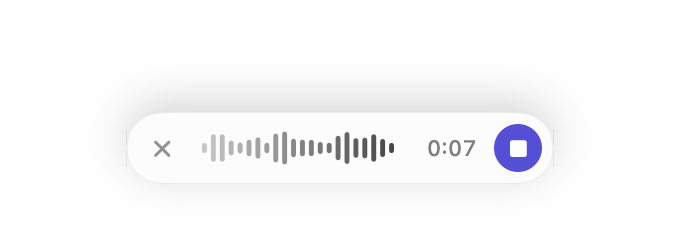
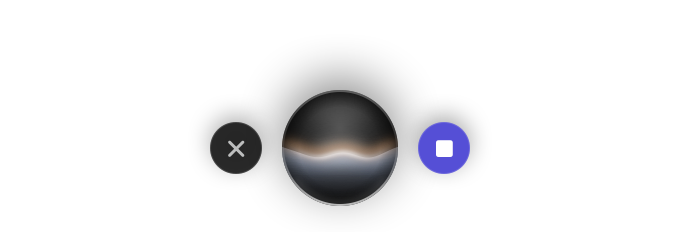
Replace the dictation pill with a glass orb

diff --git a/Sources/Murmur/Pill.swift b/Sources/Murmur/Pill.swift
@@ -2,7 +2,7 @@ import AppKit
 import SwiftUI
 import Combine
 
-/// The floating capsule shown while dictating. It never takes focus, so typing continues
+/// The floating orb shown while dictating. It never takes focus, so typing continues
 /// to land in the app underneath.
 final class PillController {
     private var panel: NSPanel?
@@ -74,25 +74,20 @@ final class PillController {
 
 struct PillView: View {
     @ObservedObject var model: PillModel
-    @Environment(\.colorScheme) private var scheme
+    @Environment(\.accessibilityReduceMotion) private var reduceMotion
 
     var body: some View {
         ZStack {
             content
-                .padding(.horizontal, 6)
-                .frame(height: 36)
-                .background(
-                    Capsule().fill(background)
-                        .shadow(color: .black.opacity(scheme == .dark ? 0.45 : 0.18), radius: 12, y: 5)
-                )
-                .overlay(Capsule().strokeBorder(Color.primary.opacity(scheme == .dark ? 0.14 : 0.08), lineWidth: 0.5))
                 .animation(.spring(response: 0.32, dampingFraction: 0.82), value: model.phase)
         }
         .frame(maxWidth: .infinity, maxHeight: .infinity)
     }
 
-    private var background: Color {
-        scheme == .dark ? Color(white: 0.11).opacity(0.96) : Color(white: 0.99).opacity(0.97)
+    /// The last few microphone readings averaged, so the ripple swells rather than jumps.
+    private var level: CGFloat {
+        let recent = model.levels.suffix(3)
+        return CGFloat(recent.reduce(0, +)) / CGFloat(max(recent.count, 1))
     }
 
     @ViewBuilder private var content: some View {
@@ -100,40 +95,51 @@ struct PillView: View {
         case .hidden:
             EmptyView()
         case .listening(let handsFree):
-            HStack(spacing: 8) {
-                PillButton(symbol: "xmark", help: "Cancel (Esc)") { Dictation.shared.cancel() }
-                Waveform(levels: model.levels)
-                    .frame(width: 96, height: 20)
-                Text(model.started, style: .timer)
-                    .font(.system(size: 11, weight: .medium).monospacedDigit())
-                    .foregroundStyle(.secondary)
-                    .frame(width: 34, alignment: .trailing)
-                PillButton(symbol: handsFree ? "stop.fill" : "checkmark", help: "Finish", prominent: handsFree) {
-                    Dictation.shared.finish()
+            HStack(spacing: 10) {
+                // Holding the key needs no buttons: letting go is "done", Esc is "cancel".
+                if handsFree {
+                    PillButton(symbol: "xmark", help: "Cancel (Esc)") { Dictation.shared.cancel() }
+                }
+                orb(thinking: false)
+                if handsFree {
+                    PillButton(symbol: "stop.fill", help: "Finish", prominent: true) { Dictation.shared.finish() }
                 }
             }
         case .thinking:
-            HStack(spacing: 8) {
-                ThinkingDots()
-                Text("Transcribing")
-                    .font(.system(size: 12, weight: .medium))
-                    .foregroundStyle(.secondary)
-            }
-            .padding(.horizontal, 10)
+            orb(thinking: true)
         case .notice(let message, let good):
-            HStack(spacing: 7) {
-                Image(systemName: good ? "checkmark.circle.fill" : "exclamationmark.circle")
-                    .font(.system(size: 13, weight: .semibold))
-                    .foregroundStyle(good ? Theme.accent : Color.secondary)
-                if !message.isEmpty {
+            if message.isEmpty {
+                orb(thinking: true)
+                    .overlay(Image(systemName: "checkmark")
+                        .font(.system(size: 17, weight: .bold))
+                        .foregroundStyle(.white)
+                        .shadow(color: .black.opacity(0.5), radius: 3))
+            } else {
+                HStack(spacing: 7) {
+                    Image(systemName: good ? "checkmark.circle.fill" : "exclamationmark.circle")
+                        .font(.system(size: 13, weight: .semibold))
+                        .foregroundStyle(good ? Theme.accent : Color.white.opacity(0.6))
                     Text(message)
                         .font(.system(size: 12, weight: .medium))
-                        .foregroundStyle(.primary.opacity(0.85))
+                        .foregroundStyle(.white.opacity(0.9))
                         .lineLimit(1)
                 }
+                .padding(.horizontal, 14)
+                .frame(height: 34)
+                .background(Capsule().fill(Color(white: 0.09).opacity(0.96))
+                    .shadow(color: .black.opacity(0.4), radius: 12, y: 5))
+                .overlay(Capsule().strokeBorder(Color.white.opacity(0.14), lineWidth: 0.5))
             }
-            .padding(.horizontal, message.isEmpty ? 4 : 10)
         }
+    }
+
+    private func orb(thinking: Bool) -> some View {
+        // The timeline exists only while the orb is on screen; hidden, nothing ticks.
+        TimelineView(.animation(minimumInterval: 1.0 / 30, paused: reduceMotion)) { timeline in
+            OrbView(level: level, time: reduceMotion ? 0.8 : timeline.date.timeIntervalSinceReferenceDate, thinking: thinking)
+        }
+        .frame(width: 58, height: 58)
+        .shadow(color: .black.opacity(0.45), radius: 12, y: 6)
     }
 }
 
@@ -148,55 +154,16 @@ private struct PillButton: View {
         Button(action: action) {
             Image(systemName: symbol)
                 .font(.system(size: 10, weight: .bold))
-                .foregroundStyle(prominent ? Color.white : Color.primary.opacity(hovering ? 0.9 : 0.5))
-                .frame(width: 24, height: 24)
-                .background(Circle().fill(prominent ? Theme.accent : Color.primary.opacity(hovering ? 0.1 : 0)))
+                .foregroundStyle(Color.white.opacity(prominent || hovering ? 1 : 0.7))
+                .frame(width: 26, height: 26)
+                .background(Circle().fill(prominent ? Theme.accent : Color(white: hovering ? 0.22 : 0.12).opacity(0.95))
+                    .shadow(color: .black.opacity(0.35), radius: 6, y: 3))
+                .overlay(Circle().strokeBorder(Color.white.opacity(0.14), lineWidth: 0.5))
                 .contentShape(Circle())
         }
         .buttonStyle(.plain)
         .onHover { hovering = $0 }
         .help(help)
         .accessibilityLabel(help)
-    }
-}
-
-/// Bars that follow the microphone. Redrawn only when a new level arrives.
-struct Waveform: View {
-    let levels: [Float]
-
-    var body: some View {
-        Canvas { context, size in
-            let count = levels.count
-            guard count > 0 else { return }
-            let gap: CGFloat = 2
-            let width = (size.width - gap * CGFloat(count - 1)) / CGFloat(count)
-            for (i, level) in levels.enumerated() {
-                // Newer bars are stronger; older ones fade toward the left.
-                let age = CGFloat(i) / CGFloat(count - 1)
-                let height = max(2.5, CGFloat(level) * size.height)
-                let rect = CGRect(x: CGFloat(i) * (width + gap), y: (size.height - height) / 2, width: width, height: height)
-                context.fill(Path(roundedRect: rect, cornerRadius: width / 2), with: .color(.primary.opacity(0.25 + 0.6 * age)))
-            }
-        }
-        .animation(.linear(duration: 0.06), value: levels)
-        .accessibilityHidden(true)
-    }
-}
-
-private struct ThinkingDots: View {
-    @Environment(\.accessibilityReduceMotion) private var reduceMotion
-
-    var body: some View {
-        // The timeline exists only while this view is on screen.
-        TimelineView(.animation(minimumInterval: 1.0 / 30, paused: reduceMotion)) { timeline in
-            let t = timeline.date.timeIntervalSinceReferenceDate
-            HStack(spacing: 3) {
-                ForEach(0..<3, id: \.self) { i in
-                    Circle()
-                        .fill(Color.primary.opacity(reduceMotion ? 0.6 : 0.3 + 0.5 * (0.5 + 0.5 * sin(t * 5 - Double(i) * 0.9))))
-                        .frame(width: 4.5, height: 4.5)
-                }
-            }
-        }
     }
 }

diff --git a/Sources/Murmur/Orb.swift b/Sources/Murmur/Orb.swift
@@ -1,0 +1,121 @@
+import SwiftUI
+
+/// A dark glass sphere with a band of light across its middle that ripples with your voice.
+/// Drawn entirely in SwiftUI (no Metal shader files), so it builds with Command Line Tools.
+/// The wavy-surface idea follows metasidd/Orb (MIT): https://github.com/metasidd/Orb
+struct OrbView: View {
+    /// 0...1 microphone level.
+    var level: CGFloat
+    /// Seconds, drives the ripple. Pass a fixed value for a still image.
+    var time: Double
+    /// Slow shimmer instead of voice ripples, for the transcribing state.
+    var thinking = false
+
+    var body: some View {
+        Canvas { context, size in
+            let side = min(size.width, size.height)
+            let rect = CGRect(x: (size.width - side) / 2, y: (size.height - side) / 2, width: side, height: side)
+            let sphere = Path(ellipseIn: rect)
+            let centre = CGPoint(x: rect.midX, y: rect.midY)
+            let r = side / 2
+
+            // 1. The glass body: darker toward the rim, a little lift where light enters at the top.
+            context.fill(sphere, with: .radialGradient(
+                Gradient(stops: [.init(color: Color(white: 0.30), location: 0),
+                                 .init(color: Color(white: 0.13), location: 0.55),
+                                 .init(color: Color(white: 0.03), location: 1)]),
+                center: CGPoint(x: centre.x, y: centre.y - r * 0.35), startRadius: 0, endRadius: r * 1.25))
+
+            context.drawLayer { inner in
+                inner.clip(to: sphere)
+
+                // The surface line. It sags slightly at the centre like liquid seen through a lens.
+                let energy = thinking ? 0.25 : level
+                let amplitude = r * (0.035 + 0.16 * energy)
+                let baseY = centre.y - r * 0.02
+                func surfaceY(_ x: CGFloat) -> CGFloat {
+                    let u = (x - rect.minX) / side                      // 0...1 across the sphere
+                    let sag = sin(u * .pi) * r * 0.20
+                    let speed = thinking ? 1.2 : 3.2
+                    let wave = sin(Double(u) * 7.0 + time * speed) * 0.6 + sin(Double(u) * 13.0 - time * speed * 1.7) * 0.4
+                    return baseY + sag + CGFloat(wave) * amplitude * sin(u * .pi)
+                }
+                var surface = Path()
+                surface.move(to: CGPoint(x: rect.minX, y: surfaceY(rect.minX)))
+                for step in 1...48 {
+                    let x = rect.minX + side * CGFloat(step) / 48
+                    surface.addLine(to: CGPoint(x: x, y: surfaceY(x)))
+                }
+
+                // 2. Below the line: cool, misty liquid.
+                var liquid = surface
+                liquid.addLine(to: CGPoint(x: rect.maxX, y: rect.maxY))
+                liquid.addLine(to: CGPoint(x: rect.minX, y: rect.maxY))
+                liquid.closeSubpath()
+                inner.fill(liquid, with: .linearGradient(
+                    Gradient(colors: [Color(red: 0.72, green: 0.78, blue: 0.86).opacity(0.80),
+                                      Color(red: 0.36, green: 0.40, blue: 0.47).opacity(0.50),
+                                      Color(white: 0.10).opacity(0.15)]),
+                    startPoint: CGPoint(x: centre.x, y: baseY), endPoint: CGPoint(x: centre.x, y: rect.maxY)))
+
+                // A bloom at the centre of the line, where the light is strongest.
+                inner.drawLayer { bloom in
+                    bloom.addFilter(.blur(radius: r * 0.16))
+                    let spot = CGRect(x: centre.x - r * 0.42, y: surfaceY(centre.x) - r * 0.10, width: r * 0.84, height: r * 0.20)
+                    bloom.fill(Path(ellipseIn: spot), with: .color(.white.opacity(0.80 + 0.20 * energy)))
+                }
+
+                // 3. The band of light, split into warm and cool edges like light through thick glass.
+                let glow = 0.75 + 0.25 * energy
+                inner.drawLayer { warm in
+                    warm.addFilter(.blur(radius: r * 0.10))
+                    warm.translateBy(x: 0, y: -r * 0.05)
+                    warm.stroke(surface, with: .color(Color(red: 1.0, green: 0.62, blue: 0.30).opacity(1.0 * glow)), lineWidth: r * 0.14)
+                }
+                inner.drawLayer { cool in
+                    cool.addFilter(.blur(radius: r * 0.12))
+                    cool.translateBy(x: 0, y: r * 0.05)
+                    cool.stroke(surface, with: .color(Color(red: 0.55, green: 0.75, blue: 1.0).opacity(0.7 * glow)), lineWidth: r * 0.12)
+                }
+                inner.drawLayer { core in
+                    core.addFilter(.blur(radius: r * 0.035))
+                    // Brightest in the middle, fading to nothing at the rim.
+                    core.stroke(surface, with: .linearGradient(
+                        Gradient(stops: [.init(color: .white.opacity(0), location: 0.04),
+                                         .init(color: .white.opacity(0.95 * glow), location: 0.38),
+                                         .init(color: .white.opacity(0.95 * glow), location: 0.62),
+                                         .init(color: .white.opacity(0), location: 0.96)]),
+                        startPoint: CGPoint(x: rect.minX, y: baseY), endPoint: CGPoint(x: rect.maxX, y: baseY)),
+                        lineWidth: r * 0.06)
+                }
+
+                // 4. A soft reflection in the upper half.
+                inner.drawLayer { shine in
+                    shine.addFilter(.blur(radius: r * 0.16))
+                    let highlight = CGRect(x: centre.x - r * 0.55, y: rect.minY + r * 0.12, width: r * 1.1, height: r * 0.5)
+                    shine.fill(Path(ellipseIn: highlight), with: .color(.white.opacity(0.10)))
+                }
+
+                // 5. Darkening toward the edge so it reads as a ball, not a disc.
+                inner.fill(sphere, with: .radialGradient(
+                    Gradient(stops: [.init(color: .clear, location: 0.70), .init(color: .black.opacity(0.42), location: 1)]),
+                    center: centre, startRadius: 0, endRadius: r))
+            }
+
+            // Light pooling along the bottom edge of the glass.
+            context.drawLayer { pool in
+                pool.clip(to: sphere)
+                pool.addFilter(.blur(radius: r * 0.07))
+                pool.stroke(Path { p in
+                    p.addArc(center: centre, radius: r * 0.96, startAngle: .degrees(35), endAngle: .degrees(145), clockwise: false)
+                }, with: .color(.white.opacity(0.35)), lineWidth: r * 0.06)
+            }
+
+            // 6. The rim: a hairline of light, brighter along the bottom where the liquid catches it.
+            context.stroke(Path(ellipseIn: rect.insetBy(dx: 0.5, dy: 0.5)), with: .linearGradient(
+                Gradient(colors: [.white.opacity(0.30), .white.opacity(0.08), .white.opacity(0.70)]),
+                startPoint: CGPoint(x: centre.x, y: rect.minY), endPoint: CGPoint(x: centre.x, y: rect.maxY)), lineWidth: 1)
+        }
+        .accessibilityHidden(true)
+    }
+}

diff --git a/Sources/Murmur/ScreenRenderer.swift b/Sources/Murmur/ScreenRenderer.swift
@@ -39,6 +39,19 @@ enum ScreenRenderer {
             }
         }
 
+        // The orb at a few voice levels, on the kind of backdrop it will float over.
+        let orbs = HStack(spacing: 36) {
+            OrbView(level: 0.05, time: 0.4).frame(width: 150, height: 150)
+            OrbView(level: 0.5, time: 1.3).frame(width: 150, height: 150)
+            OrbView(level: 1.0, time: 2.1).frame(width: 150, height: 150)
+            OrbView(level: 0, time: 0.8, thinking: true).frame(width: 150, height: 150)
+            OrbView(level: 0.5, time: 1.3).frame(width: 56, height: 56)
+        }
+        .padding(40)
+        .background(Color(white: 0.16))
+        snapshot(orbs, size: NSSize(width: 900, height: 230), appearance: .darkAqua,
+                 to: directory.appendingPathComponent("orb-preview.png"))
+
         renderIcon(to: directory.appendingPathComponent("icon-1024.png"))
     }
 

diff --git a/PROJECT_PROMPT.md b/PROJECT_PROMPT.md
@@ -72,18 +72,20 @@ hotkey ─▶ record (AVAudioEngine, 16 kHz mono) ─▶ whisper.cpp large-v3-tu
 Three surfaces, all appearance-aware (light and dark), monochrome with a
 single accent, system font, no brand colour splashed on top of the user's work.
 
-### 1. The pill
+### 1. The orb
 
-A small capsule at the bottom-centre of the screen, shown only while
+A small dark glass sphere at the bottom-centre of the screen, shown only while
 dictating. Non-activating panel: it never steals focus from the app being
 typed into.
 
-- Listening: live waveform driven by microphone level, elapsed time, cancel
-  (✕) on the left, finish (✓ for push-to-talk, ■ for hands-free) on the right.
-- Thinking: the waveform settles into a slow shimmer while transcribing.
-- Done: a brief check, then it fades. Errors show one short line
-  ("No microphone access", "Copied — paste with ⌘V").
-- Animations stop completely when the pill is hidden.
+- Listening: a band of light across the sphere ripples with the microphone
+  level. Holding the key shows the orb alone (release is "done", Esc is
+  "cancel"); hands-free adds a small cancel (✕) and stop (■) beside it.
+- Thinking: the ripple slows to a shimmer while transcribing.
+- Done: a brief check on the orb, then it fades. Messages show as one short
+  line in a dark capsule ("No microphone access", "Copied — paste with ⌘V").
+- Drawn in plain SwiftUI, no shader files. Animation stops completely when
+  the orb is hidden.
 
 ### 2. The menu-bar item
 

diff --git a/README.md b/README.md
@@ -10,7 +10,7 @@ never leaves the machine.
 
 | | |
 |---|---|
-| ![Pill](docs/pill-listening-dark.png) | ![Styles](docs/styles-light.png) |
+| ![Orb](docs/pill-handsfree-dark.png) | ![Styles](docs/styles-light.png) |
 
 ## What it does
 
